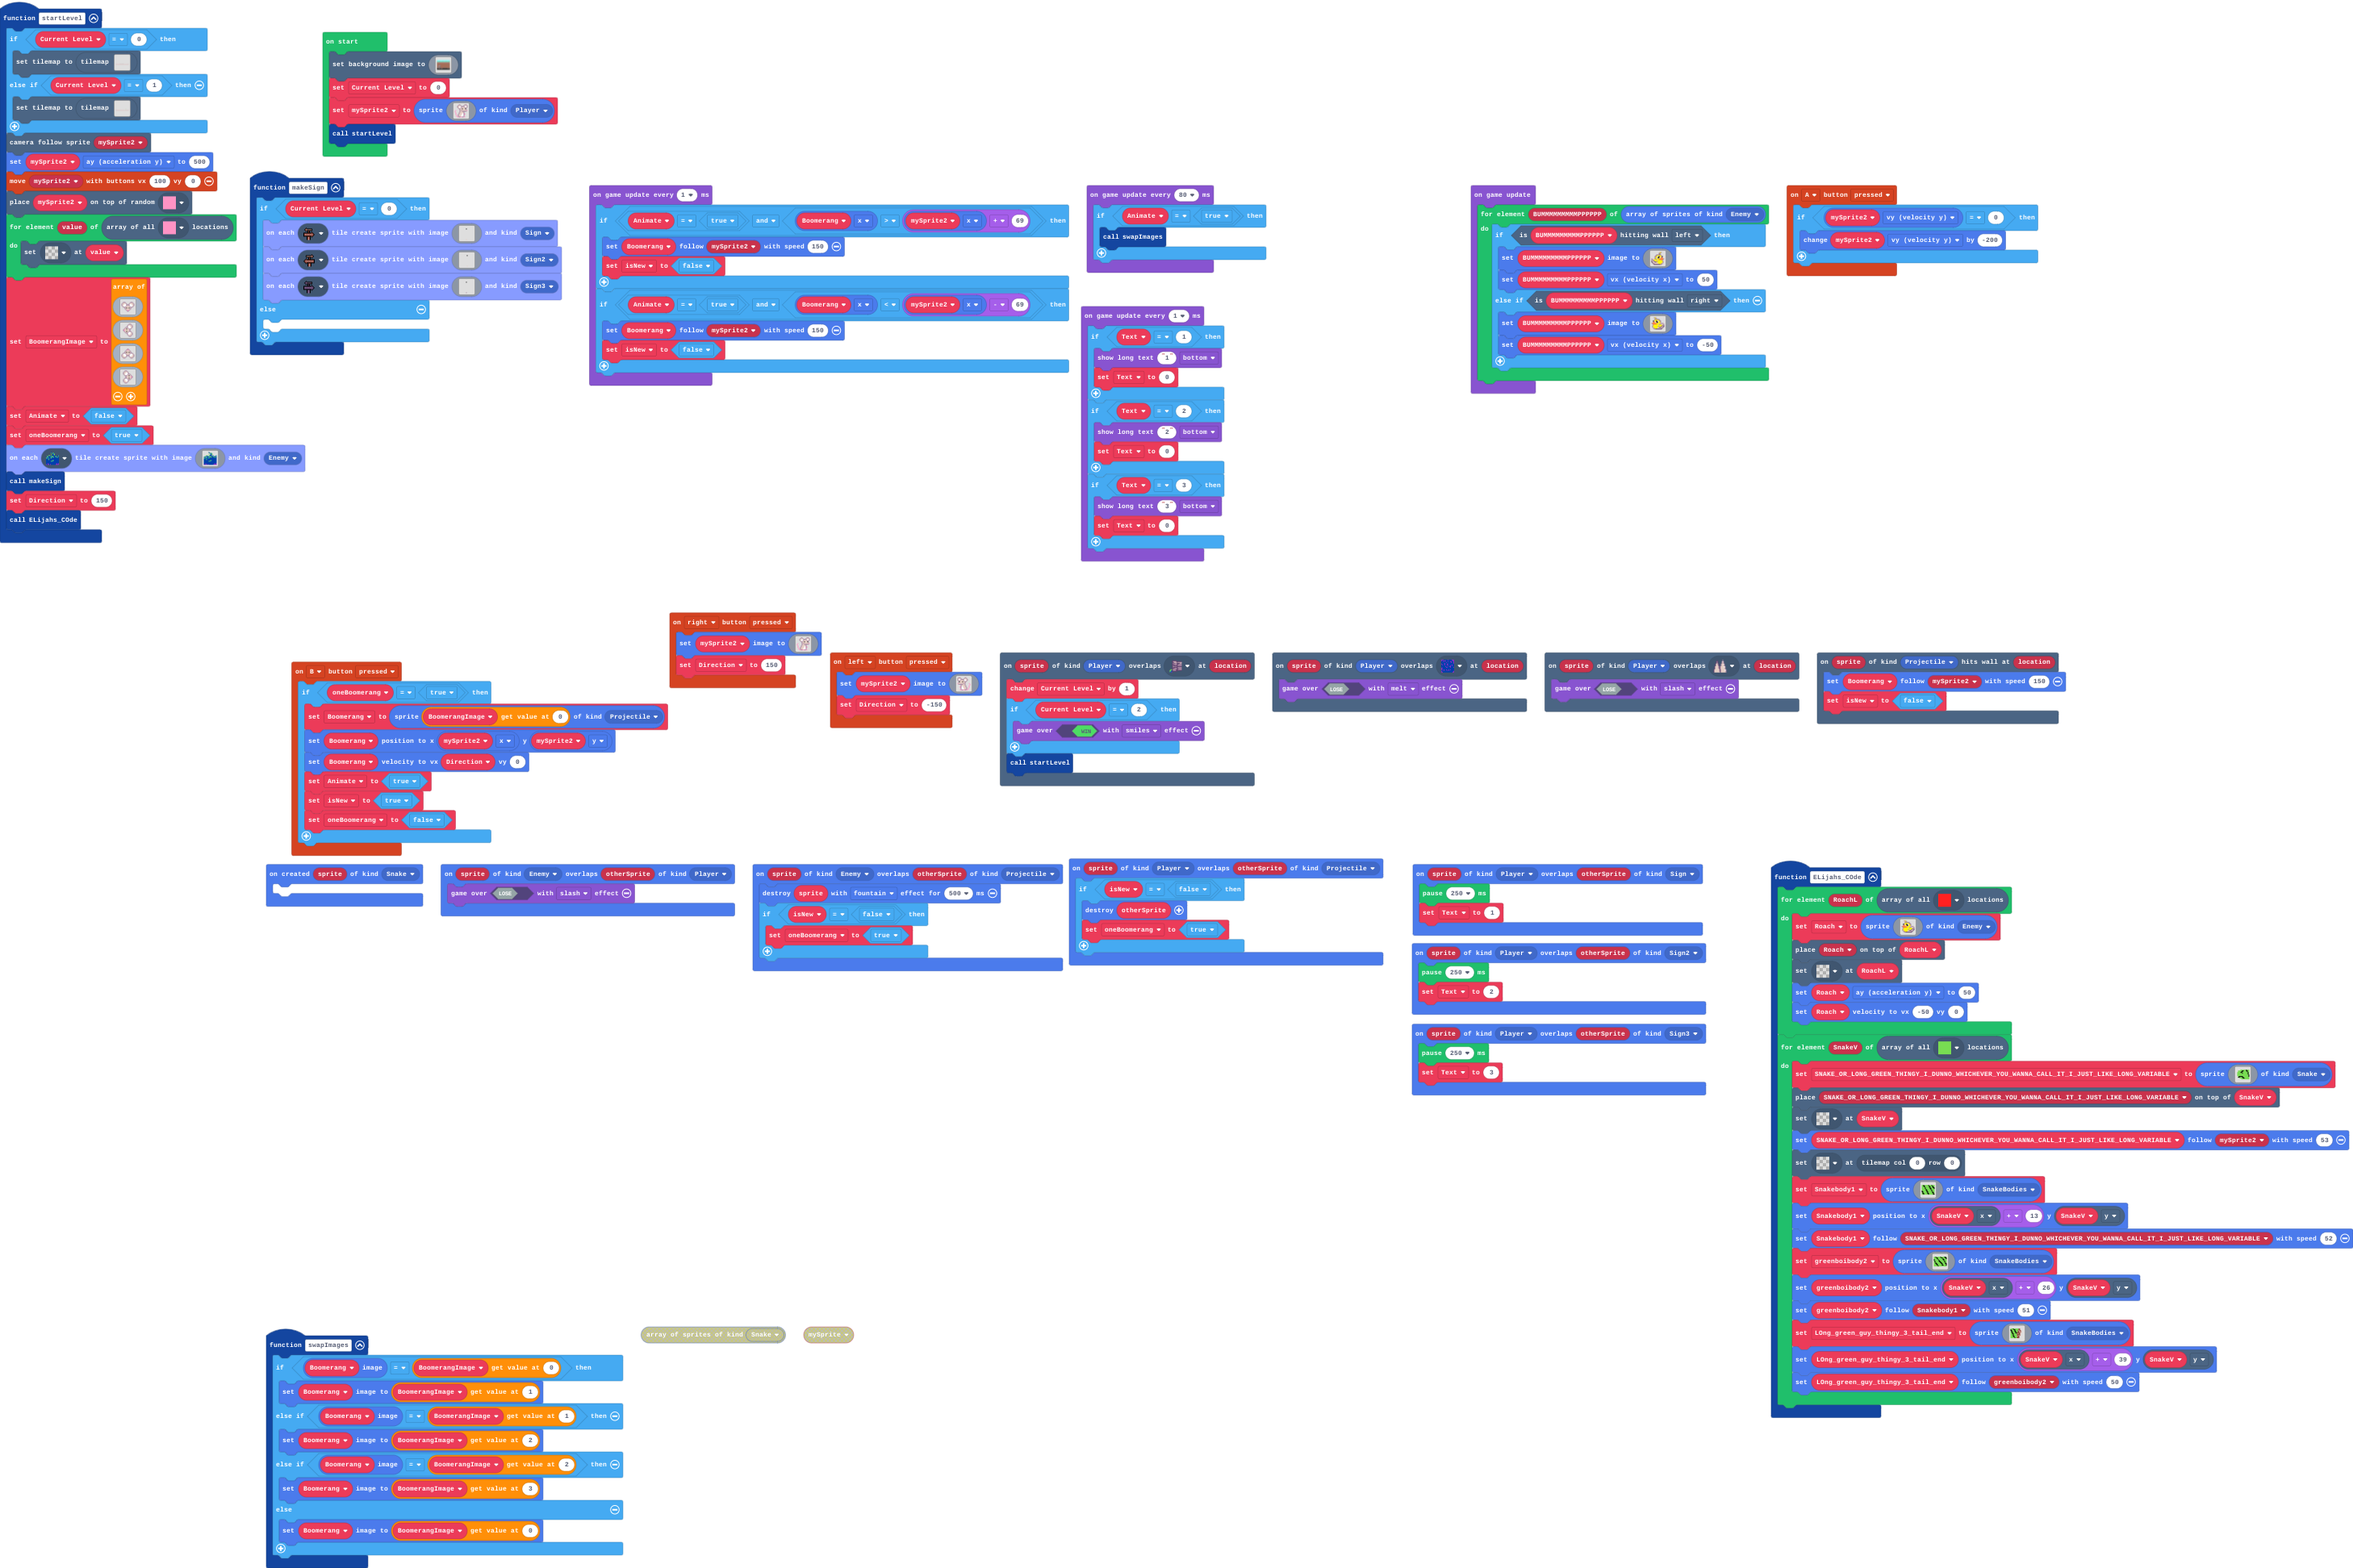
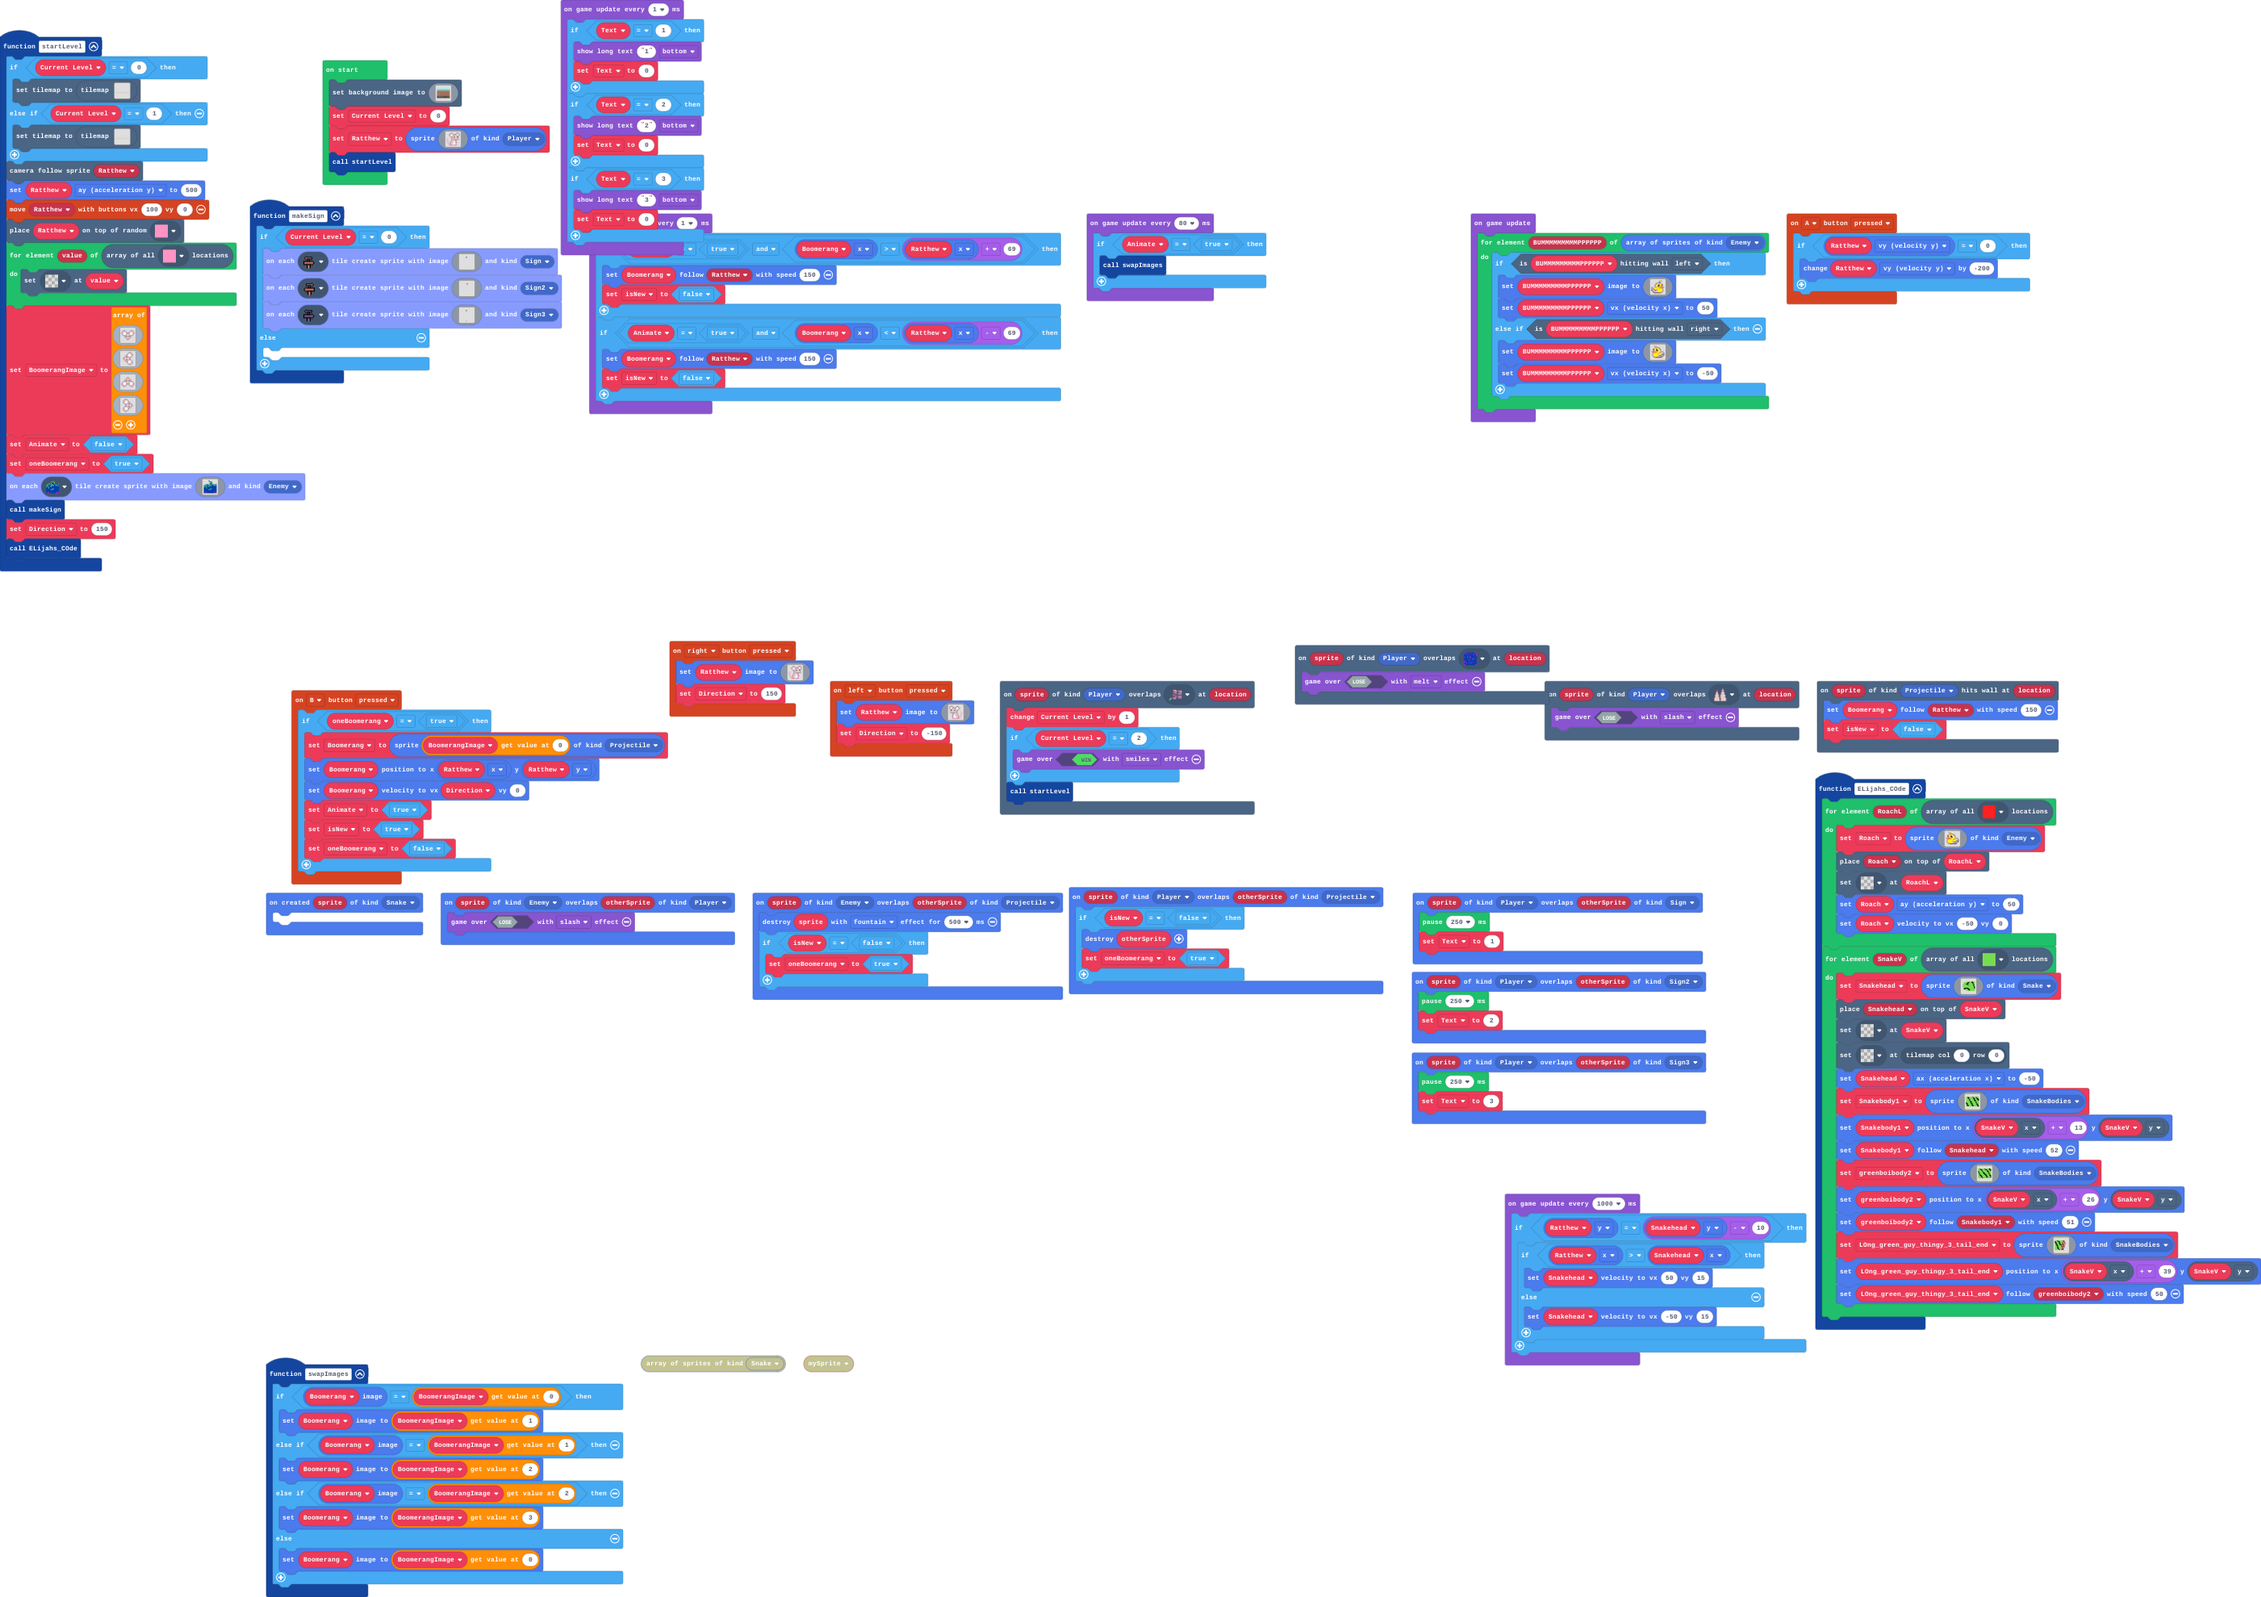
Update main.blocks, main.ts, tilemap.g.jres, tilemap.g.ts

diff --git a/main.ts b/main.ts
@@ -22,7 +22,7 @@ scene.onOverlapTile(SpriteKind.Player, assets.tile`EndPipe`, function (sprite, l
 controller.B.onEvent(ControllerButtonEvent.Pressed, function () {
     if (oneBoomerang == true) {
         Boomerang = sprites.create(BoomerangImage[0], SpriteKind.Projectile)
-        Boomerang.setPosition(mySprite2.x, mySprite2.y)
+        Boomerang.setPosition(Ratthew.x, Ratthew.y)
         Boomerang.setVelocity(Direction, 0)
         Animate = true
         isNew = true
@@ -34,12 +34,12 @@ sprites.onOverlap(SpriteKind.Player, SpriteKind.Sign2, function (sprite, otherSp
     Text = 2
 })
 controller.A.onEvent(ControllerButtonEvent.Pressed, function () {
-    if (mySprite2.vy == 0) {
-        mySprite2.vy += -200
+    if (Ratthew.vy == 0) {
+        Ratthew.vy += -200
     }
 })
 controller.left.onEvent(ControllerButtonEvent.Pressed, function () {
-    mySprite2.setImage(assets.image`RatthewOther`)
+    Ratthew.setImage(assets.image`RatthewOther`)
     Direction = -150
 })
 sprites.onOverlap(SpriteKind.Enemy, SpriteKind.Projectile, function (sprite, otherSprite) {
@@ -72,14 +72,14 @@ function ELijahs_COde () {
         Roach.setVelocity(-50, 0)
     }
     for (let SnakeV of tiles.getTilesByType(assets.tile`Snake`)) {
-        SNAKE_OR_LONG_GREEN_THINGY_I_DUNNO_WHICHEVER_YOU_WANNA_CALL_IT_I_JUST_LIKE_LONG_VARIABLE = sprites.create(assets.image`Snake Head`, SpriteKind.Snake)
-        tiles.placeOnTile(SNAKE_OR_LONG_GREEN_THINGY_I_DUNNO_WHICHEVER_YOU_WANNA_CALL_IT_I_JUST_LIKE_LONG_VARIABLE, SnakeV)
+        Snakehead = sprites.create(assets.image`Snake Head`, SpriteKind.Snake)
+        tiles.placeOnTile(Snakehead, SnakeV)
         tiles.setTileAt(SnakeV, assets.tile`transparency16`)
-        SNAKE_OR_LONG_GREEN_THINGY_I_DUNNO_WHICHEVER_YOU_WANNA_CALL_IT_I_JUST_LIKE_LONG_VARIABLE.follow(mySprite2, 53)
         tiles.setTileAt(tiles.getTileLocation(0, 0), assets.tile`transparency16`)
+        Snakehead.ax = -50
         Snakebody1 = sprites.create(assets.image`Greenthing body 1`, SpriteKind.SnakeBodies)
         Snakebody1.setPosition(SnakeV.x + 13, SnakeV.y)
-        Snakebody1.follow(SNAKE_OR_LONG_GREEN_THINGY_I_DUNNO_WHICHEVER_YOU_WANNA_CALL_IT_I_JUST_LIKE_LONG_VARIABLE, 52)
+        Snakebody1.follow(Snakehead, 52)
         greenboibody2 = sprites.create(assets.image`LOng boi 2`, SpriteKind.SnakeBodies)
         greenboibody2.setPosition(SnakeV.x + 26, SnakeV.y)
         greenboibody2.follow(Snakebody1, 51)
@@ -89,7 +89,7 @@ function ELijahs_COde () {
     }
 }
 controller.right.onEvent(ControllerButtonEvent.Pressed, function () {
-    mySprite2.setImage(assets.image`Ratthew`)
+    Ratthew.setImage(assets.image`Ratthew`)
     Direction = 150
 })
 sprites.onOverlap(SpriteKind.Player, SpriteKind.Projectile, function (sprite, otherSprite) {
@@ -105,7 +105,7 @@ scene.onOverlapTile(SpriteKind.Player, assets.tile`Spikes`, function (sprite, lo
     game.over(false, effects.slash)
 })
 scene.onHitWall(SpriteKind.Projectile, function (sprite, location) {
-    Boomerang.follow(mySprite2, 150)
+    Boomerang.follow(Ratthew, 150)
     isNew = false
 })
 sprites.onCreated(SpriteKind.Snake, function (sprite) {
@@ -122,14 +122,14 @@ function makeSign () {
 }
 function startLevel () {
     if (Current_Level == 0) {
-        tiles.setCurrentTilemap(tilemap`level0`)
+        tiles.setCurrentTilemap(tilemap`level1`)
     } else if (Current_Level == 1) {
         tiles.setCurrentTilemap(tilemap`level1`)
     }
-    scene.cameraFollowSprite(mySprite2)
-    mySprite2.ay = 500
-    controller.moveSprite(mySprite2, 100, 0)
-    tiles.placeOnRandomTile(mySprite2, assets.tile`Spawn`)
+    scene.cameraFollowSprite(Ratthew)
+    Ratthew.ay = 500
+    controller.moveSprite(Ratthew, 100, 0)
+    tiles.placeOnRandomTile(Ratthew, assets.tile`Spawn`)
     for (let value of tiles.getTilesByType(assets.tile`Spawn`)) {
         tiles.setTileAt(value, assets.tile`transparency16`)
     }
@@ -149,7 +149,7 @@ function startLevel () {
 let LOng_green_guy_thingy_3_tail_end: Sprite = null
 let greenboibody2: Sprite = null
 let Snakebody1: Sprite = null
-let SNAKE_OR_LONG_GREEN_THINGY_I_DUNNO_WHICHEVER_YOU_WANNA_CALL_IT_I_JUST_LIKE_LONG_VARIABLE: Sprite = null
+let Snakehead: Sprite = null
 let Roach: Sprite = null
 let isNew = false
 let Animate = false
@@ -158,7 +158,7 @@ let BoomerangImage: Image[] = []
 let Boomerang: Sprite = null
 let oneBoomerang = false
 let Text = 0
-let mySprite2: Sprite = null
+let Ratthew: Sprite = null
 let Current_Level = 0
 scene.setBackgroundImage(img`
     9999999999999999999999999999999999999999999999999999999999999999999999999999999999999999999999999999999999999999999999999999999999999999999999999999999999999999
@@ -283,7 +283,7 @@ scene.setBackgroundImage(img`
     ffffffffffffffffffffffffffffffffffffffffffffffffffffffffffffffffffffffffffffffffffffffffffffffffffffffffffffffffffffffffffffffffffffffffffffffffffffffffffffffff
     `)
 Current_Level = 0
-mySprite2 = sprites.create(assets.image`Ratthew`, SpriteKind.Player)
+Ratthew = sprites.create(assets.image`Ratthew`, SpriteKind.Player)
 startLevel()
 game.onUpdate(function () {
     for (let BUMMMMMMMMMPPPPPP of sprites.allOfKind(SpriteKind.Enemy)) {
@@ -318,14 +318,13 @@ game.onUpdateInterval(80, function () {
         swapImages()
     }
 })
-game.onUpdateInterval(1, function () {
-    if (Animate == true && Boomerang.x > mySprite2.x + 69) {
-        Boomerang.follow(mySprite2, 150)
-        isNew = false
-    }
-    if (Animate == true && Boomerang.x < mySprite2.x - 69) {
-        Boomerang.follow(mySprite2, 150)
-        isNew = false
+game.onUpdateInterval(1000, function () {
+    if (Ratthew.y == Snakehead.y - 10) {
+        if (Ratthew.x > Snakehead.x) {
+            Snakehead.setVelocity(50, 15)
+        } else {
+            Snakehead.setVelocity(-50, 15)
+        }
     }
 })
 game.onUpdateInterval(1, function () {
@@ -340,5 +339,15 @@ game.onUpdateInterval(1, function () {
     if (Text == 3) {
         game.showLongText("3", DialogLayout.Bottom)
         Text = 0
+    }
+})
+game.onUpdateInterval(1, function () {
+    if (Animate == true && Boomerang.x > Ratthew.x + 69) {
+        Boomerang.follow(Ratthew, 150)
+        isNew = false
+    }
+    if (Animate == true && Boomerang.x < Ratthew.x - 69) {
+        Boomerang.follow(Ratthew, 150)
+        isNew = false
     }
 })

diff --git a/tilemap.g.ts b/tilemap.g.ts
@@ -96,44 +96,6 @@ namespace myTiles {
 22222222222222222222222222222222222222222222222222
 22222222222222222222222222222222222222222222222222
 `, [myTiles.transparency16,sprites.dungeon.floorLight0,sprites.dungeon.floorLight1,sprites.dungeon.floorLight4,myTiles.tile3,sprites.dungeon.floorLightMoss,sprites.dungeon.floorLight5,myTiles.tile12,myTiles.tile13,myTiles.tile14,myTiles.tile15], TileScale.Sixteen);
-            case "level5":
-            case "level5":return tiles.createTilemap(hex`1000100000000000000000000000000000000000000000000000000000000000000000000000000000000000000000000000000000000000000000000000000000000000000000000000000000000000000000000000000000000000000000000000000000000000000000000000000000000000000000000000000000000000000000000000000000000000000000000000000000000000000000000000000000000000000000000000000000000000000000000000000000000000000000000000000000000000000000000000000000000000000000000000000000000000000000000000000000000000000000000000000000000000000000000000000000000000`, img`
-. . . . . . . . . . . . . . . . 
-. . . . . . . . . . . . . . . . 
-. . . . . . . . . . . . . . . . 
-. . . . . . . . . . . . . . . . 
-. . . . . . . . . . . . . . . . 
-. . . . . . . . . . . . . . . . 
-. . . . . . . . . . . . . . . . 
-. . . . . . . . . . . . . . . . 
-. . . . . . . . . . . . . . . . 
-. . . . . . . . . . . . . . . . 
-. . . . . . . . . . . . . . . . 
-. . . . . . . . . . . . . . . . 
-. . . . . . . . . . . . . . . . 
-. . . . . . . . . . . . . . . . 
-. . . . . . . . . . . . . . . . 
-. . . . . . . . . . . . . . . . 
-`, [myTiles.transparency16], TileScale.Sixteen);
-            case "level6":
-            case "level6":return tiles.createTilemap(hex`1000100000000000000000000000000000000000000000000000000000000000000000000000000000000000000000000000000000000000000000000000000000000000000000000000000000000000000000000000000000000000000000000000000000000000000000000000000000000000000000000000000000000000000000000000000000000000000000000000000000000000000000000000000000000000000000000000000000000000000000000000000000000000000000000000000000000000000000000000000000000000000000000000000000000000000000000000000000000000000000000000000000000000000000000000000000000000`, img`
-. . . . . . . . . . . . . . . . 
-. . . . . . . . . . . . . . . . 
-. . . . . . . . . . . . . . . . 
-. . . . . . . . . . . . . . . . 
-. . . . . . . . . . . . . . . . 
-. . . . . . . . . . . . . . . . 
-. . . . . . . . . . . . . . . . 
-. . . . . . . . . . . . . . . . 
-. . . . . . . . . . . . . . . . 
-. . . . . . . . . . . . . . . . 
-. . . . . . . . . . . . . . . . 
-. . . . . . . . . . . . . . . . 
-. . . . . . . . . . . . . . . . 
-. . . . . . . . . . . . . . . . 
-. . . . . . . . . . . . . . . . 
-. . . . . . . . . . . . . . . . 
-`, [myTiles.transparency16], TileScale.Sixteen);
             case "level1":
             case "level1":return tiles.createTilemap(hex`3200140000000000000000000000000000000000000000000000000000000000000000000000000000000000000000000000000000000000000000000000000000000000000000000000000000000000000000000000000000000000000000000000000000000000000000000000000000000000000000000000000000000000000000000000000000000000000000000000000000000000000000000000000000000000000000000000000000000000000000000000000000000000000000000000000000000000000000000000000000000000000000000000000000000000000000000000000000000000000000000000000000000000000000000000000000000000000000000000000000000000000000000000000000000000000000000000000000000000000000000000000000000000000000000000000000000000000000000000000000000000000000000000000000000000000000000000000000000000000000000000000000000000000000000000000000000000000000000000000000000000000000000000000000000000000000000000000000000000000000000000000000000000000000000000000000000000000000000000000000000000000000000000000000000000000000000000000000000000000000000000000000000000000000000000000000000000000000000000000000000000000000000000000000000000000000000000000000000000000000000000000000000000000000000000000000000000000000000000000000000000000000000000000000000000000000000000000000000000000000000000000000000000000000000000000000000000000000000000000000000000000000000000000000000700000000000000000000000000000000000000000000000000000000000000000000000000000000000000000000000000000000000000000000000000000000000000000000000000000000000000000000000000000000000000000000000000000000000000000000000000000000000000000000000000000000000000000000000000000000000000000000000000000000000000000000000000000000000000080000000000000000000000000000000000000000000000000000000000000000000000070000000000000000000004010201030203020201020203030106010101010201010101010101010101010101010101010102010101010101010203010102020203020303030101020301010202020303030302030202020501010101010101010101010203030102030302010302010202020102010201020203020203010201030201010303010102010101010101010101010101020301030301020301010101`, img`
 ..................................................
